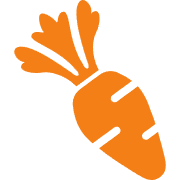
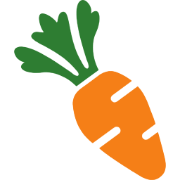
а

diff --git a/resources/js/Components/header/style.scss b/resources/js/Components/header/style.scss
@@ -25,7 +25,8 @@
     line-height: 0;
 
     svg {
-      max-width: 160px;
+      width: 200px;
+      height: auto;
       display: block;
     }
   }
@@ -209,7 +210,7 @@
   @media (max-width: 1024px) {
     padding: 14px 20px;
 
-    &__logo svg { max-width: 140px; }
+    &__logo svg { width: 175px; }
     &__nav-list { gap: 14px; }
     &__button { padding: 9px 18px; font-size: 13px; }
     &__user-circle { width: 40px; height: 40px; svg { width: 22px; height: 22px; } }
@@ -281,7 +282,7 @@
   @media (max-width: 480px) {
     padding: 10px 12px;
 
-    &__logo svg { max-width: 120px; }
+    &__logo svg { width: 145px; }
 
     &__button {
       padding: 7px 10px;

diff --git a/resources/views/app.blade.php b/resources/views/app.blade.php
@@ -4,11 +4,14 @@
     <meta charset="utf-8">
     <meta name="viewport" content="width=device-width, initial-scale=1">
     <title>Рубикон</title>
-    <link rel="icon" type="image/svg+xml" href="/favicon.svg">
-    <link rel="icon" type="image/png" sizes="32x32" href="/favicon-32x32.png">
-    <link rel="icon" type="image/png" sizes="16x16" href="/favicon-16x16.png">
-    <link rel="icon" href="/favicon.ico" sizes="any">
-    <link rel="apple-touch-icon" sizes="180x180" href="/apple-touch-icon.png">
+    <link rel="icon" type="image/svg+xml" href="{{asset('/favicon.svg')}}">
+    <link rel="icon" type="image/png" sizes="32x32" href="{{asset('/favicon-32x32.png')}}">
+    <link rel="icon" type="image/png" sizes="16x16" href="{{asset('/favicon-16x16.png')}}">
+    <link rel="icon" href="{{asset('/favicon.ico')}}" sizes="any">
+    <link rel="apple-touch-icon" sizes="180x180" href="{{asset('/apple-touch-icon.png')}}">
+    <link rel="manifest" href="{{asset('/site.webmanifest')}}">
+    <link rel="icon" type="image/png" sizes="512x512" href="{{asset('/android-chrome-512x512.png')}}">
+    <link rel="icon" type="image/png" sizes="192x192" href="{{asset('/android-chrome-192x192.png')}}">
     @viteReactRefresh
     @vite('resources/js/app.jsx')
     @inertiaHead